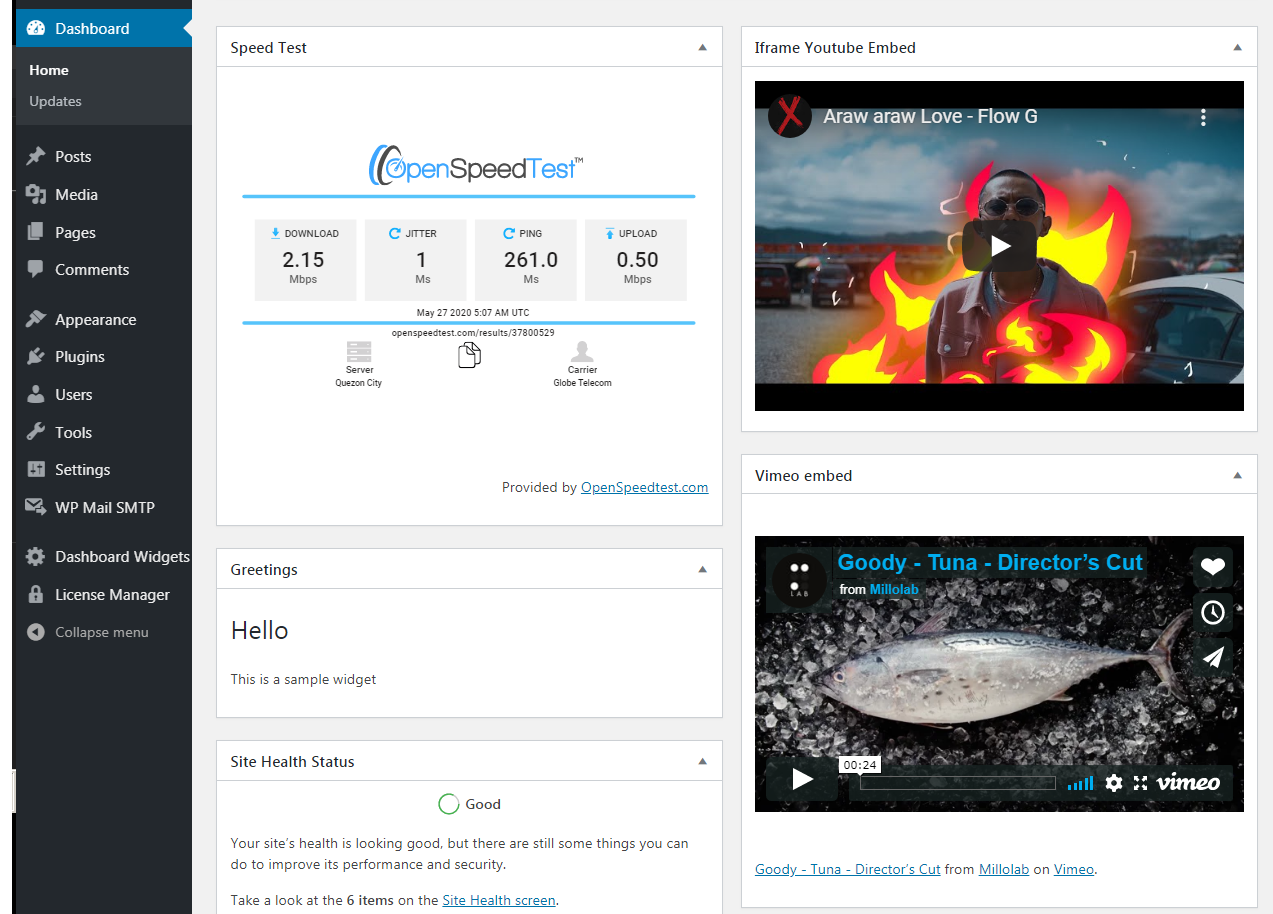
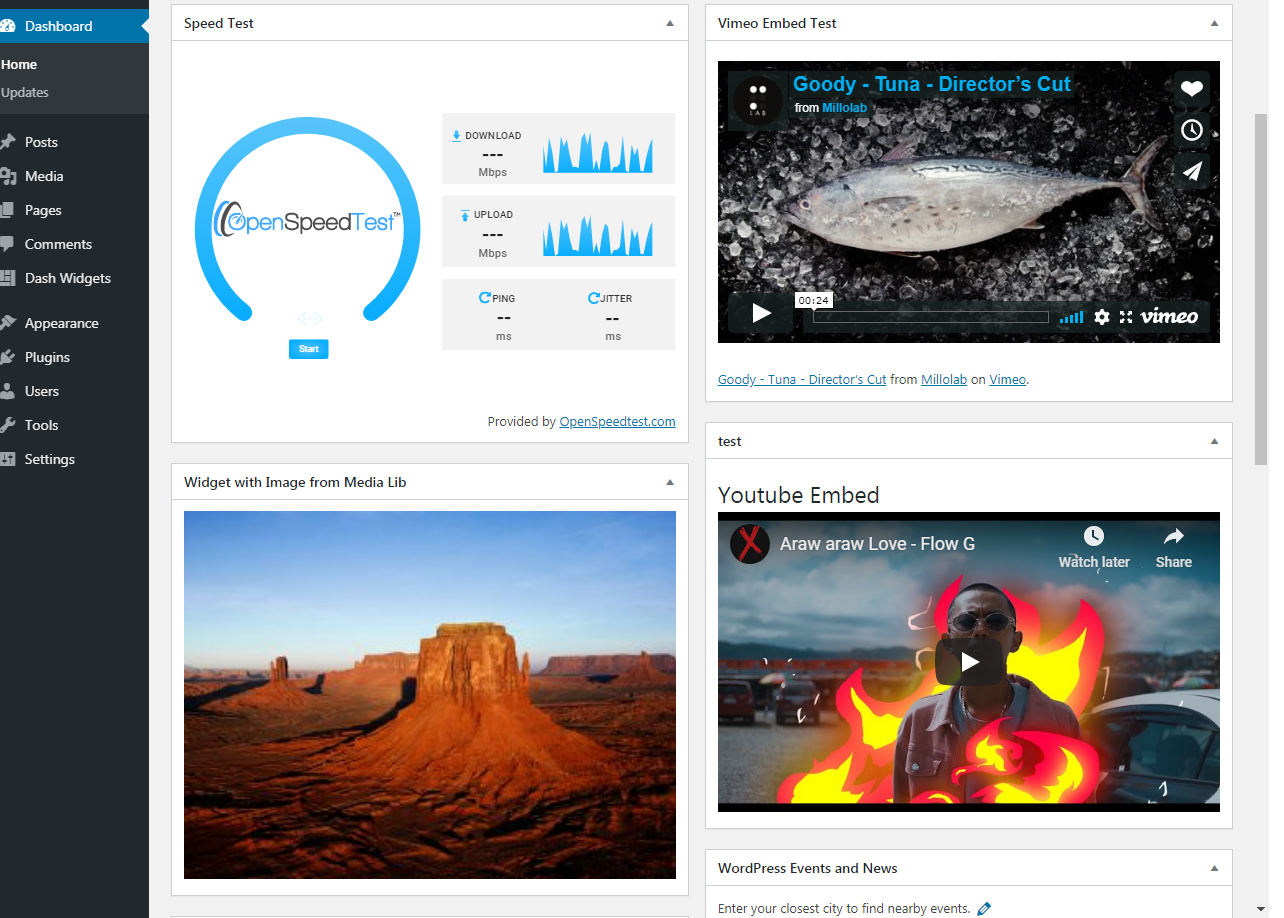
Added shortcode generation for dashboard widgets, this enables the user to use the widget in frontend pages. Updated screenshots

diff --git a/classes/Metabox.php b/classes/Metabox.php
@@ -15,9 +15,15 @@ class Metabox {
 
 
     function register_dash_widget_metabox(){
-        add_meta_box('user_role_metabox',
+        add_meta_box('dash_widget_user_role_metabox',
             __('Choose User Role'),
             array($this, 'render_user_role_meta_box'),
+            'dash_widget', 'side', 'default' //normal high
+        );
+
+        add_meta_box('dash_widget_about_metabox',
+            __('About Dash Widget'),
+            array($this, 'render_about_metabox'),
             'dash_widget', 'side', 'default' //normal high
         );
     }
@@ -50,6 +56,14 @@ class Metabox {
         <?php
     }
 
+    function render_about_metabox(){
+        ?>
+        <div class="inside">
[1 lines of base64/hex data omitted]
+            <p>This plugin is brought to you by <a href="https://appdevph.com" target="_blank">AppDevPH</a></p>
+        </div>
+        <?php
+    }
 
     /** Saves which user can view the current metabox */
     function save_user_role_metabox($post_id){

diff --git a/classes/WidgetCPT.php b/classes/WidgetCPT.php
@@ -11,6 +11,8 @@ class Widget_CPT {
 
     public function __construct(){
         add_action( 'init', array( $this, 'create_dash_widget_cpt' ), 0 );
+        add_filter( 'manage_dash_widget_posts_columns', array( $this, 'set_dash_widget_cpt_columns' ) );
+        add_action( 'manage_dash_widget_posts_custom_column' , array( $this, 'dash_widget_cpt_custom_columns'), 10, 2 );
     }
 
     function create_dash_widget_cpt(){
@@ -43,9 +45,35 @@ class Widget_CPT {
                 'exclude_from_search'   => false,
                 'publicly_queryable'    => false,
                 'show_in_nav_menus'     => false,
-                'show_in_admin_bar'     => true
+                'show_in_admin_bar'     => true,
+                'menu_icon'             => 'dashicons-layout'
             )
         );
+    }
+
+
+
+    function set_dash_widget_cpt_columns($columns) {
+        $new = array();
+        foreach($columns as $key => $title) {
+          if ($key=='date') {
+            $new['shortcode'] = 'Shortcode';
+          }
+          $new[$key] = $title;
+        }
+        return $new;
+    }
+
+    function dash_widget_cpt_custom_columns( $column, $post_id ) {
+        $post = get_post($post_id);
+        
+        if(!$post) { return; }
+
+        switch ( $column ) {
+            case 'shortcode' :
+                echo "<code>[dash_widget name='{$post->post_name}']</code>";
+            break;
+        }
     }
 }
 

diff --git a/classes/Shortcode.php b/classes/Shortcode.php
@@ -11,6 +11,30 @@ class Shortcode {
     
     public function __construct(){
         add_shortcode("widget_sc_post", array ( $this, "render_post_shortcode" ) );
+        add_shortcode("dash_widget", array( $this, "render_dash_widget_shortcode") );
+    }
+
+
+    function render_dash_widget_shortcode($atts){
+        if(empty($atts["name"])) { return; }
+
+        $widget = null;
+        $output = "";
+        if ( $posts = get_posts( array( 
+            'name' => $atts["name"], 
+            'post_type' => 'dash_widget',
+            'post_status' => 'publish',
+            'posts_per_page' => 1
+        ) ) ) $widget = $posts[0];
+        
+        if ( ! is_null( $widget ) ){
+            $output .= sprintf("<div class='dash-widget-wrapper'><h2 class='dash-widget-title'>%s</h2><div class='dash-widget-content'>%s</div></div>",
+                $widget->post_title, html_entity_decode($widget->post_content)
+            );
+            return $output;
+        }
+
+        return;
     }
 
 
